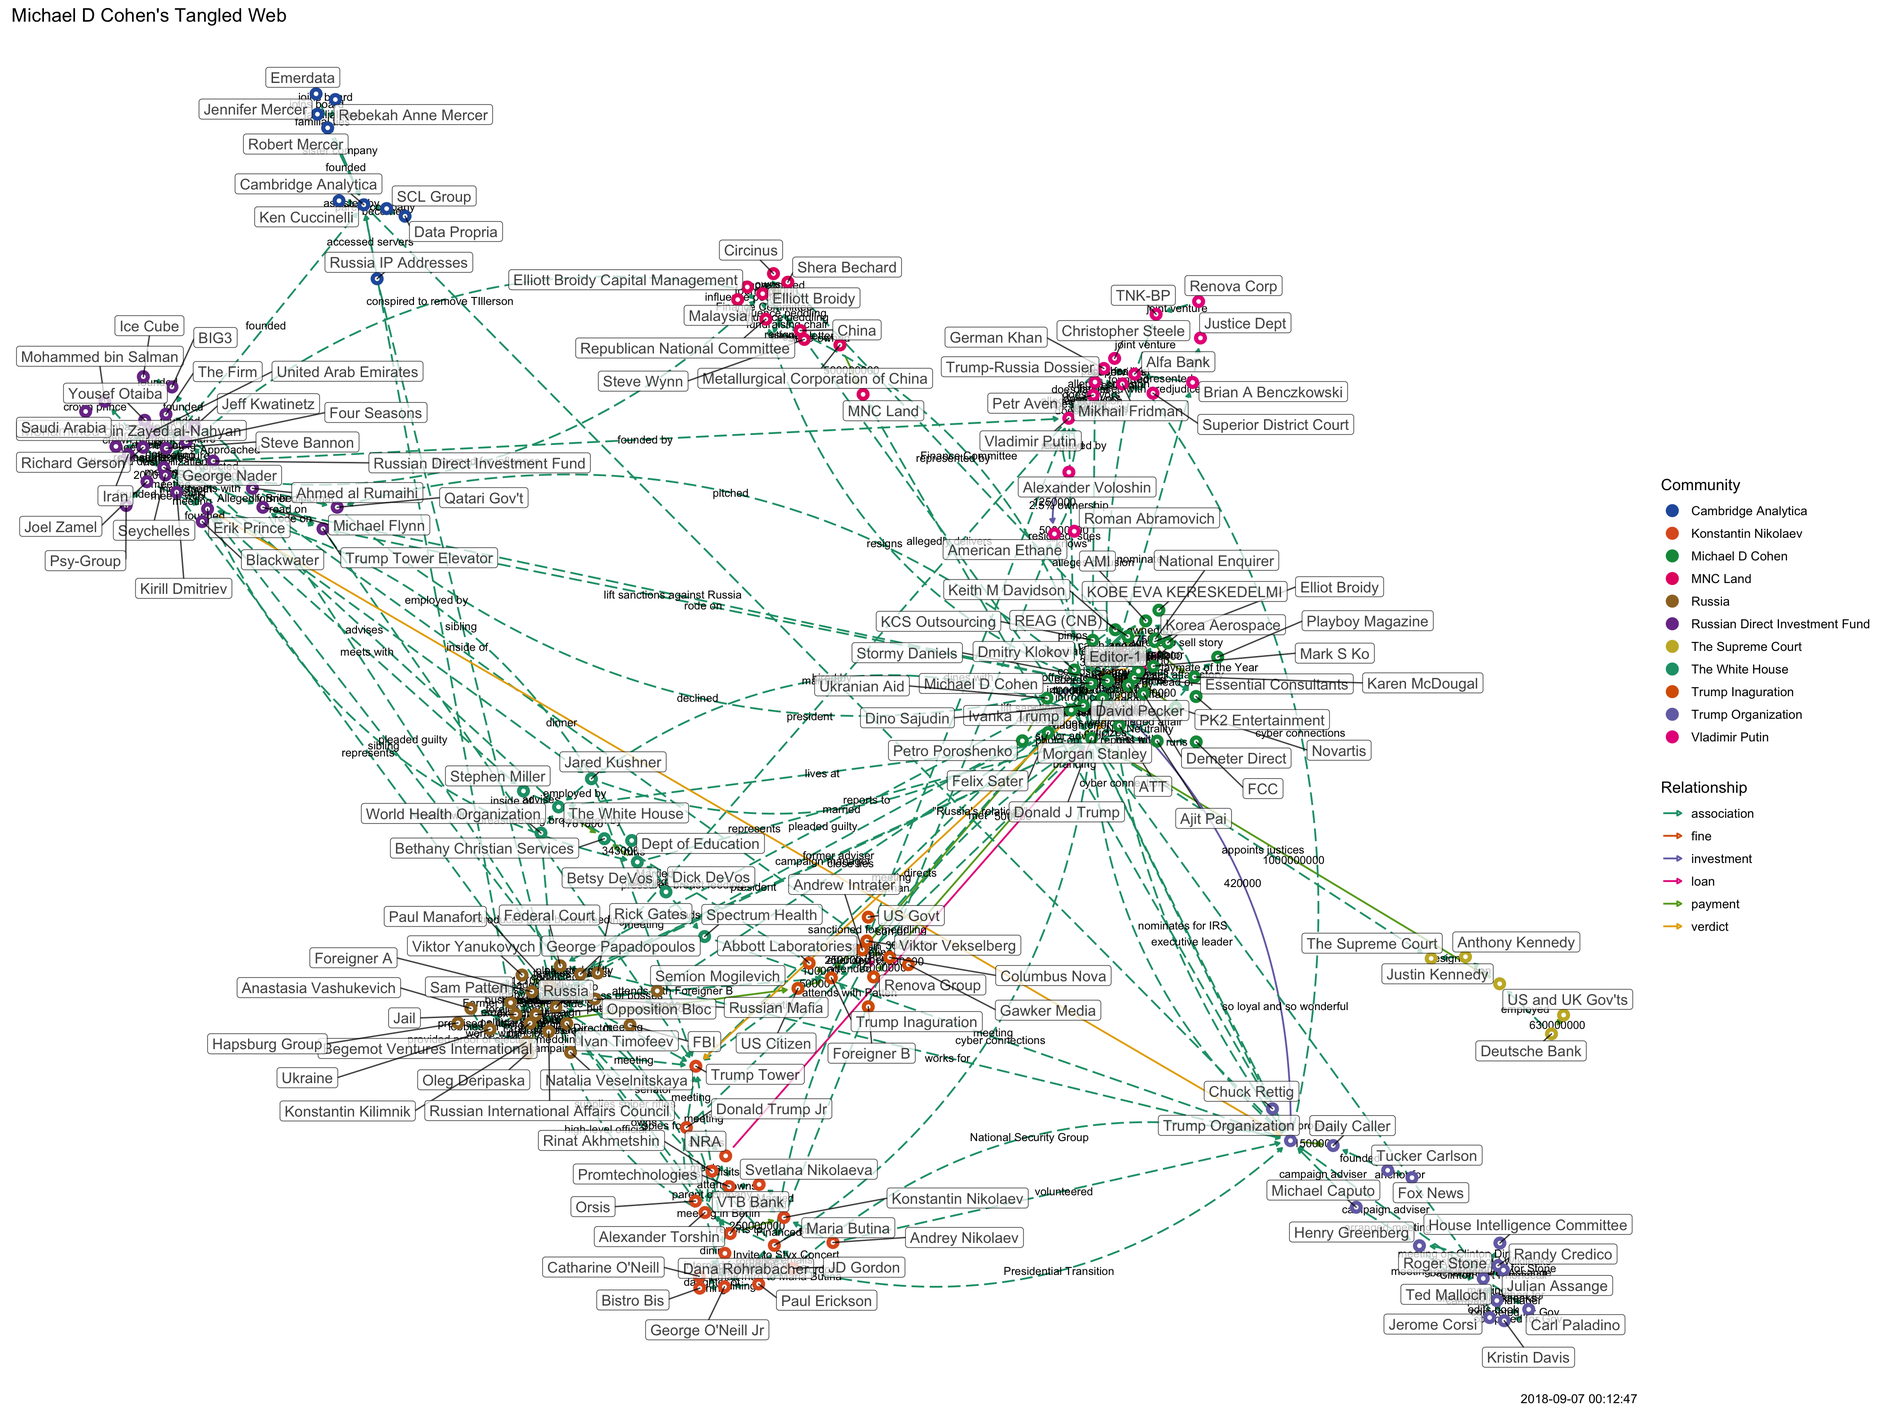
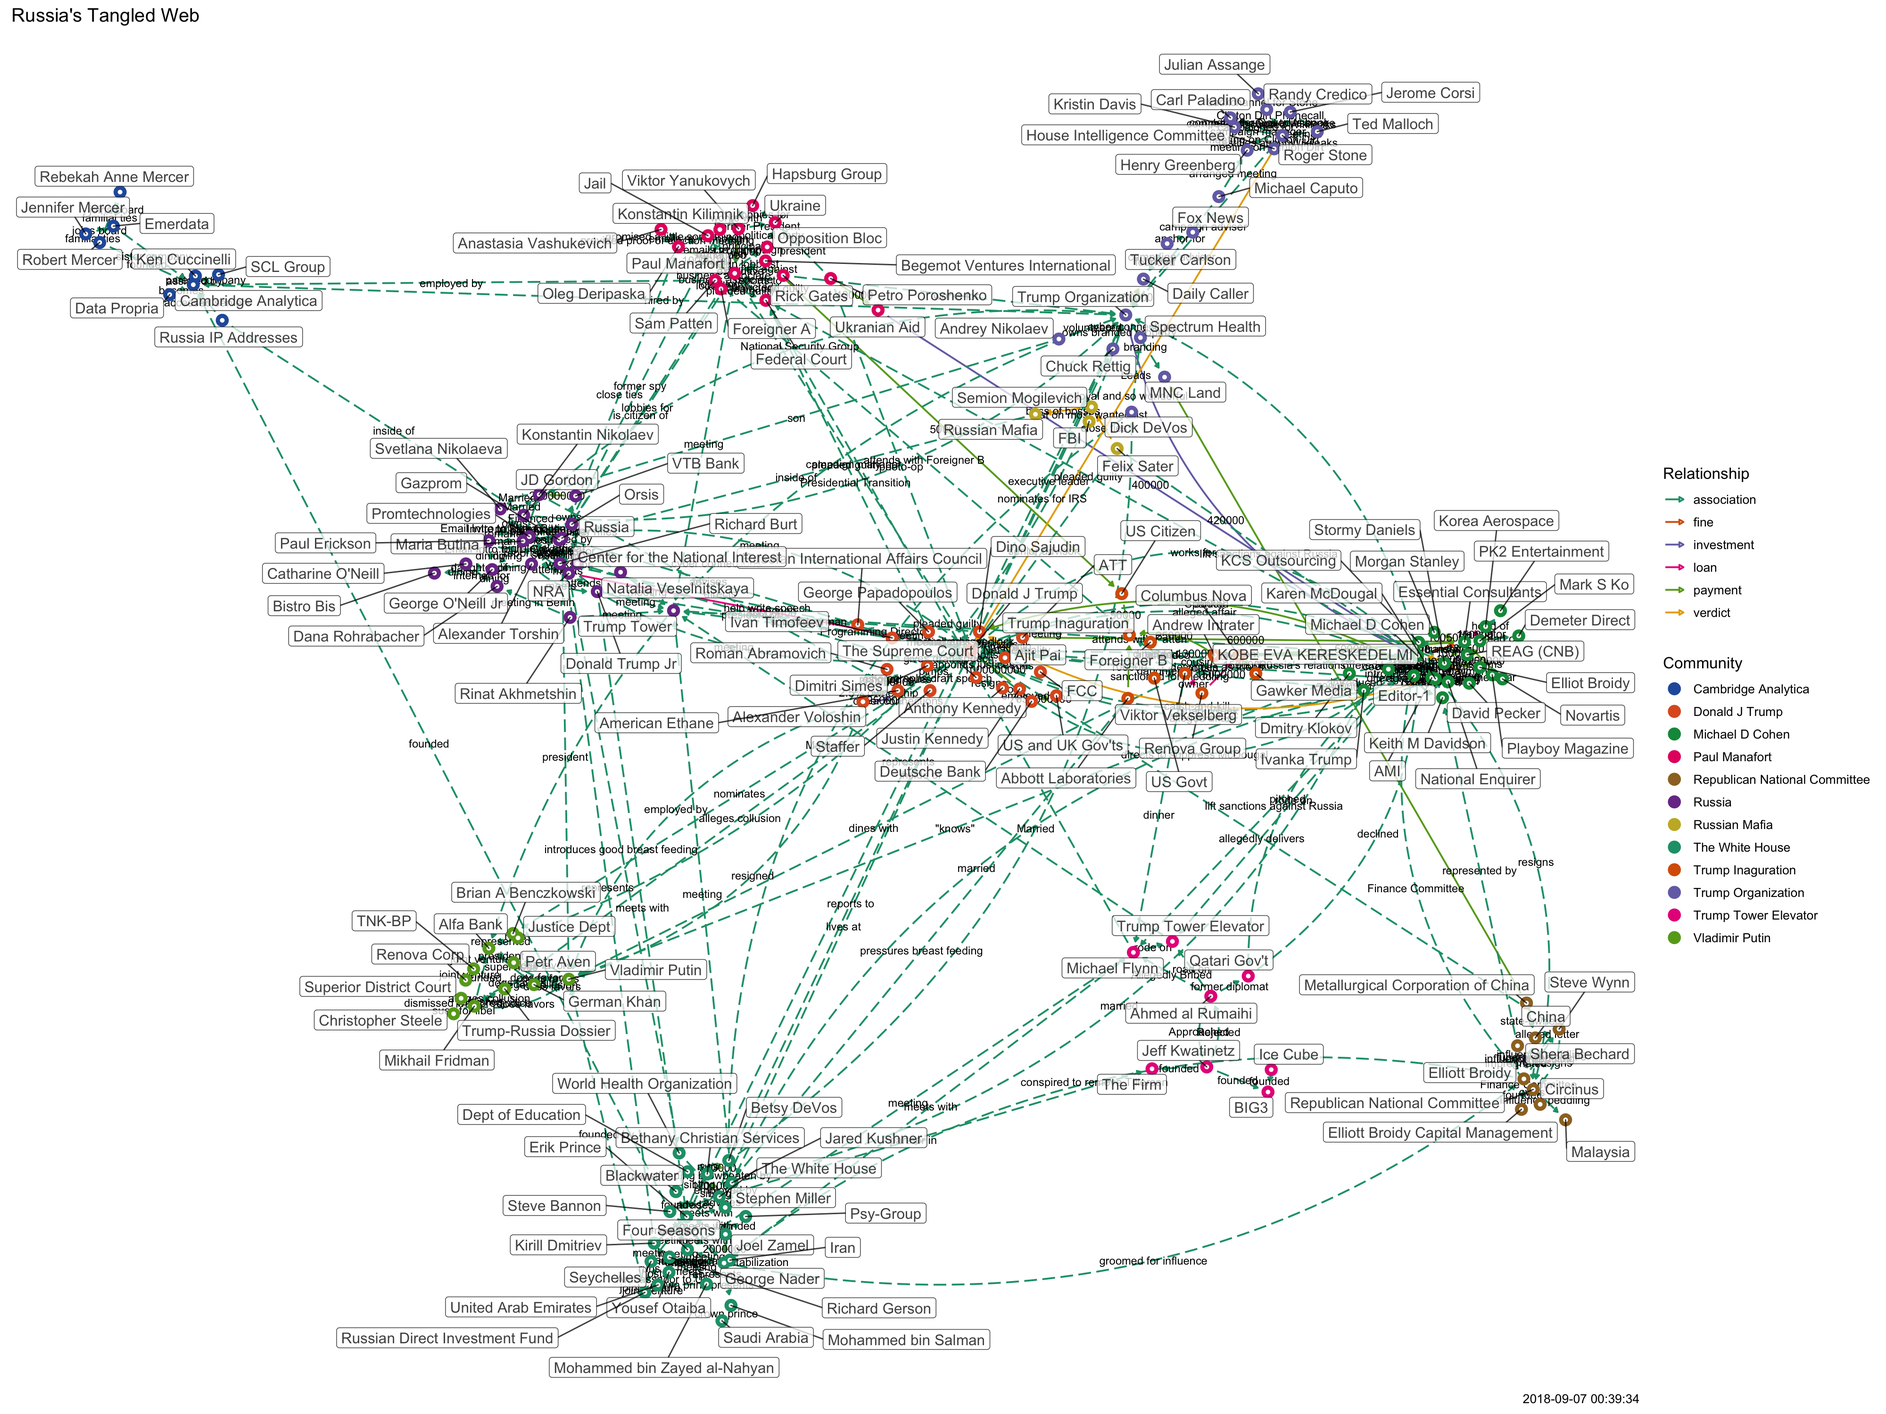
updated

diff --git a/docs/tangled-d3.html b/docs/tangled-d3.html
@@ -1143,11 +1143,11 @@ return function(){for(var n=0,e=0;e<t;++e)n+=Math.random();return n}},um=functio
 </head>
 <body style="background-color: white;">
 <div id="htmlwidget_container">
-<div id="htmlwidget-415cf0dfeb20f9e68ddf" class="forceNetwork html-widget" style="width:960px;height:500px;">
+<div id="htmlwidget-0f4e87a4f4a44fd0766f" class="forceNetwork html-widget" style="width:960px;height:500px;">
 
 </div>
 </div>
-<script type="application/json" data-for="htmlwidget-415cf0dfeb20f9e68ddf">{"x":{"links":{"source":[0,1,2,2,3,4,5,6,7,7,8,9,10,10,10,11,12,13,14,15,16,17,18,19,20,21,22,22,23,24,25,26,26,27,28,29,30,31,17,3,3,32,3,32,32,3,33,17,34,32,9,9,9,17,35,35,34,17,17,36,36,36,36,35,17,37,38,38,39,40,39,39,41,38,38,42,42,42,4,41,9,11,11,11,43,43,44,44,17,45,46,46,11,47,48,49,11,11,50,51,49,52,48,11,11,47,49,6,6,6,26,16,21,21,17,32,32,53,54,54,54,54,11,51,37,41,55,55,44,44,56,56,34,34,17,57,58,59,58,60,61,60,58,60,60,47,43,62,63,63,30,20,60,58,35,64,17,65,12,66,35,0,67,68,35,1,1,69,24,70,35,70,71,72,73,61,61,61,74,26,75,76,76,77,35,77,77,78,77,79,78,47,47,78,78,78,77,80,79,81,81,62,82,9,83,57,84,84,84,79,79,84,85,85,86,86,87,88,88,19,85,89,68,90,91,92,90,92,9,9,9,93,93,93,94,95,20,32,35,96,97,97,97,97,37,17,35,98,99,100,17,17,101,98,2,17,35,98,35,98,101,2,102,102,34,99,101,103,103,104,105,106,103,17,71,72,73,107,74,71,108,109,109,109,110,111,60,111,112,111,113,113,111,111,58,111,114,111,41,115,75,116,117,118,119,118,119,120,120,120,121,122,123,124,124,6,125,126,126,127,126,49,126,49,128,127,129,11,130,92,130,131,92,92,92,132,133,92,134,135],"target":[136,69,102,98,136,10,29,137,10,138,22,83,139,140,34,48,35,17,17,10,141,8,10,35,60,27,10,34,7,69,137,142,17,17,66,136,60,85,10,7,17,23,32,3,136,136,32,35,57,61,143,144,145,140,25,34,35,26,143,139,146,17,15,26,53,53,53,39,38,147,148,147,148,45,37,4,35,149,42,25,11,9,41,43,25,44,43,35,45,17,142,150,49,49,49,151,51,50,152,129,52,25,153,37,154,35,6,49,155,35,141,94,35,156,157,157,17,157,128,51,11,158,158,158,158,158,158,129,17,56,17,61,57,17,57,17,59,156,60,68,68,35,68,159,157,157,157,157,157,68,156,68,58,20,64,26,143,160,65,12,160,25,25,67,69,61,61,1,69,74,70,161,61,61,61,71,72,73,26,74,26,75,68,35,77,68,78,68,79,77,47,78,19,19,68,82,82,82,82,82,80,80,162,83,57,17,77,26,26,77,84,77,77,86,85,89,68,85,26,89,69,87,31,91,92,91,26,26,94,163,93,143,35,143,93,20,95,37,4,60,60,26,96,60,96,96,17,99,100,2,99,101,2,2,17,2,17,35,98,164,35,102,35,157,99,17,17,35,105,105,106,68,17,37,74,74,74,165,165,108,109,35,61,71,71,60,111,112,156,113,111,68,75,96,5,5,136,136,75,75,166,75,75,117,117,115,115,35,96,121,122,68,26,123,6,124,75,49,127,61,68,26,128,128,129,129,127,128,92,167,131,92,35,134,132,133,92,135,135,134],"colour":["red","blue","red","red","red","red","red","red","red","blue","red","red","red","red","red","red","blue","red","red","red","blue","red","red","blue","blue","red","red","red","blue","blue","red","red","red","red","blue","red","red","blue","blue","blue","blue","blue","blue","blue","blue","blue","blue","blue","blue","blue","blue","blue","blue","blue","blue","blue","blue","blue","blue","blue","blue","blue","blue","blue","blue","blue","blue","blue","blue","blue","blue","blue","blue","blue","blue","blue","blue","blue","blue","blue","blue","blue","blue","blue","blue","blue","blue","blue","blue","blue","blue","blue","blue","blue","blue","blue","blue","blue","blue","blue","blue","blue","blue","blue","blue","blue","blue","blue","blue","blue","blue","blue","blue","blue","blue","blue","blue","blue","blue","blue","blue","blue","blue","blue","blue","blue","blue","blue","blue","blue","blue","blue","blue","blue","blue","blue","blue","blue","blue","blue","blue","blue","blue","blue","blue","blue","blue","blue","blue","blue","blue","blue","blue","blue","blue","blue","blue","blue","blue","blue","blue","blue","blue","blue","blue","blue","blue","blue","blue","blue","blue","blue","blue","blue","blue","blue","blue","blue","blue","blue","blue","blue","blue","blue","blue","blue","blue","blue","blue","blue","blue","blue","blue","blue","blue","blue","blue","blue","blue","blue","blue","blue","blue","blue","blue","blue","blue","blue","blue","blue","blue","blue","blue","blue","blue","blue","blue","blue","blue","blue","blue","blue","blue","blue","blue","blue","blue","blue","blue","blue","blue","blue","blue","blue","blue","blue","blue","blue","blue","blue","blue","blue","blue","blue","blue","blue","blue","blue","blue","blue","blue","blue","blue","blue","blue","blue","blue","blue","blue","blue","blue","blue","blue","blue","blue","blue","blue","blue","blue","blue","blue","blue","blue","blue","blue","blue","blue","blue","blue","blue","blue","blue","blue","blue","blue","blue","blue","blue","blue","blue","blue","blue","blue","blue","blue","blue","blue","blue","blue","blue","blue","blue","blue","blue","blue","blue","blue","blue","blue","blue","blue","blue","blue","blue","blue","blue","blue","blue","blue","blue","blue","blue","blue","blue","blue","blue","blue","blue","blue","blue","blue","blue","blue","blue","blue","blue","blue","blue","blue","blue"]},"nodes":{"name":["Abbott Laboratories","Alexander Voloshin","AMI","Andrew Intrater","ATT","Begemot Ventures International","Betsy DeVos","Columbus Nova","Elliot Broidy","Elliott Broidy","Essential Consultants","George Nader","Justin Kennedy","KCS Outsourcing","KOBE EVA KERESKEDELMI","Korea Aerospace","Metallurgical Corporation of China","Michael D Cohen","Novartis","NRA","Oleg Deripaska","Petro Poroshenko","REAG (CNB)","Renova Group","Roman Abramovich","The White House","Trump Organization","Ukranian Aid","US and UK Gov'ts","US Citizen","Viktor Yanukovych","VTB Bank","Viktor Vekselberg","US Govt","Stormy Daniels","Donald J Trump","Mark S Ko","Michael Flynn","Ahmed al Rumaihi","Jeff Kwatinetz","Ice Cube","Steve Bannon","Ajit Pai","Jared Kushner","Ivanka Trump","Qatari Gov't","Tucker Carlson","Donald Trump Jr","Joel Zamel","Erik Prince","Mohammed bin Salman","Mohammed bin Zayed al-Nahyan","Stephen Miller","Trump Tower Elevator","Richard Gerson","Yousef Otaiba","Dmitry Klokov","Keith M Davidson","Konstantin Kilimnik","Hapsburg Group","Paul Manafort","Vladimir Putin","Rinat Akhmetshin","Natalia Veselnitskaya","Chuck Rettig","Anthony Kennedy","Deutsche Bank","World Health Organization","Russia","American Ethane","Brian A Benczkowski","Mikhail Fridman","German Khan","Petr Aven","Alfa Bank","Cambridge Analytica","Russia IP Addresses","Maria Butina","Alexander Torshin","Paul Erickson","Dana Rohrabacher","Catharine O'Neill","George O'Neill Jr","Shera Bechard","JD Gordon","Konstantin Nikolaev","Svetlana Nikolaeva","Orsis","Andrey Nikolaev","Promtechnologies","Michael Caputo","Henry Greenberg","Roger Stone","Steve Wynn","China","Anastasia Vashukevich","Federal Court","Rick Gates","Karen McDougal","Editor-1","National Enquirer","David Pecker","Dino Sajudin","Felix Sater","FBI","Semion Mogilevich","Russian Mafia","Renova Corp","Christopher Steele","Trump-Russia Dossier","Superior District Court","Sam Patten","Opposition Bloc","Foreigner A","Foreigner B","Robert Mercer","SCL Group","Emerdata","Jennifer Mercer","Rebekah Anne Mercer","George Papadopoulos","Ivan Timofeev","Russian International Affairs Council","Spectrum Health","Dick DeVos","Ken Cuccinelli","Kirill Dmitriev","Russian Direct Investment Fund","Seychelles","United Arab Emirates","Jerome Corsi","Ted Malloch","Randy Credico","Julian Assange","Kristin Davis","Carl Paladino","Trump Inaguration","Bethany Christian Services","Gawker Media","Demeter Direct","Morgan Stanley","MNC Land","Daily Caller","Republican National Committee","Elliott Broidy Capital Management","Circinus","PK2 Entertainment","BIG3","The Firm","FCC","Fox News","Blackwater","Saudi Arabia","Psy-Group","Iran","Dept of Education","Ukraine","Trump Tower","Four Seasons","Jail","The Supreme Court","Justice Dept","Bistro Bis","Malaysia","Playboy Magazine","TNK-BP","Data Propria","House Intelligence Committee"],"group":["8","6","1","8","1","3","10","8","1","7","1","2","11","1","1","1","7","1","1","4","3","1","1","8","6","10","5","1","11","8","3","4","8","8","1","1","1","2","2","2","2","2","1","10","1","2","5","4","2","2","2","2","10","2","2","2","1","1","3","3","3","6","4","3","5","11","11","10","3","6","6","6","6","6","6","9","9","4","4","4","4","4","4","7","4","4","4","4","4","4","5","5","5","7","7","3","3","3","1","1","1","1","1","1","3","3","3","6","6","6","6","3","3","3","8","9","9","9","9","9","3","3","3","10","10","9","2","2","2","2","5","5","5","5","5","5","8","10","8","1","1","7","5","7","7","7","1","2","2","1","5","2","2","2","2","10","3","4","2","3","11","6","4","7","1","6","9","5"]},"options":{"NodeID":"name","Group":"group","colourScale":"d3.scaleOrdinal(d3.schemeCategory20);","fontSize":20,"fontFamily":"serif","clickTextSize":50,"linkDistance":50,"linkWidth":"function(d) { return Math.sqrt(d.value); }","charge":-100,"opacity":1,"zoom":true,"legend":false,"arrows":false,"nodesize":false,"radiusCalculation":" Math.sqrt(d.nodesize)+6","bounded":false,"opacityNoHover":1,"clickAction":null}},"evals":[],"jsHooks":[]}</script>
-<script type="application/htmlwidget-sizing" data-for="htmlwidget-415cf0dfeb20f9e68ddf">{"viewer":{"width":450,"height":350,"padding":10,"fill":true},"browser":{"width":960,"height":500,"padding":10,"fill":true}}</script>
+<script type="application/json" data-for="htmlwidget-0f4e87a4f4a44fd0766f">{"x":{"links":{"source":[0,1,2,2,3,4,5,6,7,7,8,9,10,10,10,11,12,13,14,15,16,17,18,19,20,21,22,22,23,24,25,26,26,27,28,29,30,31,17,3,3,32,3,32,32,3,33,17,34,32,9,9,9,17,35,35,34,17,17,36,36,36,36,35,17,37,38,38,39,40,39,39,41,38,38,42,42,42,4,41,9,11,11,11,43,43,44,44,17,45,46,46,11,47,48,49,11,11,50,51,49,52,48,11,11,47,49,6,6,6,26,16,21,21,17,32,32,53,54,54,54,54,11,51,37,41,55,55,44,44,56,56,34,34,17,57,58,59,58,60,61,60,58,60,60,47,43,62,63,63,30,20,60,58,35,64,17,65,12,66,35,0,67,68,35,1,1,69,24,70,35,70,71,72,73,61,61,61,74,26,75,76,76,77,35,77,77,78,77,79,78,47,47,78,78,78,77,80,79,81,81,62,82,9,83,57,84,84,84,79,79,84,85,85,86,86,87,88,88,19,85,89,68,90,91,92,90,92,9,9,9,93,93,93,94,95,20,32,35,96,97,97,97,97,37,17,35,98,99,100,17,17,101,98,2,17,35,98,35,98,101,2,102,102,34,99,101,103,103,104,105,106,103,17,71,72,73,107,74,71,108,109,109,109,110,111,60,111,112,111,113,113,111,111,58,111,114,111,41,115,75,116,117,118,119,118,119,120,120,120,121,122,123,124,124,6,125,126,126,127,126,49,126,49,128,127,129,11,130,92,130,131,92,92,92,132,133,92,134,135,136,137,35,77,138,139,139,139,140],"target":[141,69,102,98,141,10,29,142,10,143,22,83,144,145,34,48,35,17,17,10,146,8,10,35,60,27,10,34,7,69,142,147,17,17,66,141,60,85,10,7,17,23,32,3,141,141,32,35,57,61,148,149,150,145,25,34,35,26,148,144,151,17,15,26,53,53,53,39,38,152,153,152,153,45,37,4,35,154,42,25,11,9,41,43,25,44,43,35,45,17,147,155,49,49,49,156,51,50,157,129,52,25,158,37,159,35,6,49,160,35,146,94,35,161,162,162,17,162,128,51,11,163,163,163,163,163,163,129,17,56,17,61,57,17,57,17,59,161,60,68,68,35,68,164,162,162,162,162,162,68,161,68,58,20,64,26,148,165,65,12,165,25,25,67,69,61,61,1,69,74,70,166,61,61,61,71,72,73,26,74,26,75,68,35,77,68,78,68,79,77,47,78,19,19,68,82,82,82,82,82,80,80,167,83,57,17,77,26,26,77,84,77,77,86,85,89,68,85,26,89,69,87,31,91,92,91,26,26,94,168,93,148,35,148,93,20,95,37,4,60,60,26,96,60,96,96,17,99,100,2,99,101,2,2,17,2,17,35,98,169,35,102,35,162,99,17,17,35,105,105,106,68,17,37,74,74,74,170,170,108,109,35,61,71,71,60,111,112,161,113,111,68,75,96,5,5,141,141,75,75,171,75,75,117,117,115,115,35,96,121,122,68,26,123,6,124,75,49,127,61,68,26,128,128,129,129,127,128,92,172,131,92,35,134,132,133,92,135,135,134,138,136,136,138,68,138,35,140,68],"colour":["red","blue","red","red","red","red","red","red","red","blue","red","red","red","red","red","red","blue","red","red","red","blue","red","red","blue","blue","red","red","red","blue","blue","red","red","red","red","blue","red","red","blue","blue","blue","blue","blue","blue","blue","blue","blue","blue","blue","blue","blue","blue","blue","blue","blue","blue","blue","blue","blue","blue","blue","blue","blue","blue","blue","blue","blue","blue","blue","blue","blue","blue","blue","blue","blue","blue","blue","blue","blue","blue","blue","blue","blue","blue","blue","blue","blue","blue","blue","blue","blue","blue","blue","blue","blue","blue","blue","blue","blue","blue","blue","blue","blue","blue","blue","blue","blue","blue","blue","blue","blue","blue","blue","blue","blue","blue","blue","blue","blue","blue","blue","blue","blue","blue","blue","blue","blue","blue","blue","blue","blue","blue","blue","blue","blue","blue","blue","blue","blue","blue","blue","blue","blue","blue","blue","blue","blue","blue","blue","blue","blue","blue","blue","blue","blue","blue","blue","blue","blue","blue","blue","blue","blue","blue","blue","blue","blue","blue","blue","blue","blue","blue","blue","blue","blue","blue","blue","blue","blue","blue","blue","blue","blue","blue","blue","blue","blue","blue","blue","blue","blue","blue","blue","blue","blue","blue","blue","blue","blue","blue","blue","blue","blue","blue","blue","blue","blue","blue","blue","blue","blue","blue","blue","blue","blue","blue","blue","blue","blue","blue","blue","blue","blue","blue","blue","blue","blue","blue","blue","blue","blue","blue","blue","blue","blue","blue","blue","blue","blue","blue","blue","blue","blue","blue","blue","blue","blue","blue","blue","blue","blue","blue","blue","blue","blue","blue","blue","blue","blue","blue","blue","blue","blue","blue","blue","blue","blue","blue","blue","blue","blue","blue","blue","blue","blue","blue","blue","blue","blue","blue","blue","blue","blue","blue","blue","blue","blue","blue","blue","blue","blue","blue","blue","blue","blue","blue","blue","blue","blue","blue","blue","blue","blue","blue","blue","blue","blue","blue","blue","blue","blue","blue","blue","blue","blue","blue","blue","blue","blue","blue","blue","blue","blue","blue","blue","blue","blue","blue","blue","blue","blue","blue","blue","blue","blue","blue","blue","blue","blue","blue","blue","blue","blue","blue","blue","blue","blue","blue","blue","blue"]},"nodes":{"name":["Abbott Laboratories","Alexander Voloshin","AMI","Andrew Intrater","ATT","Begemot Ventures International","Betsy DeVos","Columbus Nova","Elliot Broidy","Elliott Broidy","Essential Consultants","George Nader","Justin Kennedy","KCS Outsourcing","KOBE EVA KERESKEDELMI","Korea Aerospace","Metallurgical Corporation of China","Michael D Cohen","Novartis","NRA","Oleg Deripaska","Petro Poroshenko","REAG (CNB)","Renova Group","Roman Abramovich","The White House","Trump Organization","Ukranian Aid","US and UK Gov'ts","US Citizen","Viktor Yanukovych","VTB Bank","Viktor Vekselberg","US Govt","Stormy Daniels","Donald J Trump","Mark S Ko","Michael Flynn","Ahmed al Rumaihi","Jeff Kwatinetz","Ice Cube","Steve Bannon","Ajit Pai","Jared Kushner","Ivanka Trump","Qatari Gov't","Tucker Carlson","Donald Trump Jr","Joel Zamel","Erik Prince","Mohammed bin Salman","Mohammed bin Zayed al-Nahyan","Stephen Miller","Trump Tower Elevator","Richard Gerson","Yousef Otaiba","Dmitry Klokov","Keith M Davidson","Konstantin Kilimnik","Hapsburg Group","Paul Manafort","Vladimir Putin","Rinat Akhmetshin","Natalia Veselnitskaya","Chuck Rettig","Anthony Kennedy","Deutsche Bank","World Health Organization","Russia","American Ethane","Brian A Benczkowski","Mikhail Fridman","German Khan","Petr Aven","Alfa Bank","Cambridge Analytica","Russia IP Addresses","Maria Butina","Alexander Torshin","Paul Erickson","Dana Rohrabacher","Catharine O'Neill","George O'Neill Jr","Shera Bechard","JD Gordon","Konstantin Nikolaev","Svetlana Nikolaeva","Orsis","Andrey Nikolaev","Promtechnologies","Michael Caputo","Henry Greenberg","Roger Stone","Steve Wynn","China","Anastasia Vashukevich","Federal Court","Rick Gates","Karen McDougal","Editor-1","National Enquirer","David Pecker","Dino Sajudin","Felix Sater","FBI","Semion Mogilevich","Russian Mafia","Renova Corp","Christopher Steele","Trump-Russia Dossier","Superior District Court","Sam Patten","Opposition Bloc","Foreigner A","Foreigner B","Robert Mercer","SCL Group","Emerdata","Jennifer Mercer","Rebekah Anne Mercer","George Papadopoulos","Ivan Timofeev","Russian International Affairs Council","Spectrum Health","Dick DeVos","Ken Cuccinelli","Kirill Dmitriev","Russian Direct Investment Fund","Seychelles","United Arab Emirates","Jerome Corsi","Ted Malloch","Randy Credico","Julian Assange","Kristin Davis","Carl Paladino","Dimitri Simes","Staffer","Center for the National Interest","Richard Burt","Gazprom","Trump Inaguration","Bethany Christian Services","Gawker Media","Demeter Direct","Morgan Stanley","MNC Land","Daily Caller","Republican National Committee","Elliott Broidy Capital Management","Circinus","PK2 Entertainment","BIG3","The Firm","FCC","Fox News","Blackwater","Saudi Arabia","Psy-Group","Iran","Dept of Education","Ukraine","Trump Tower","Four Seasons","Jail","The Supreme Court","Justice Dept","Bistro Bis","Malaysia","Playboy Magazine","TNK-BP","Data Propria","House Intelligence Committee"],"group":["8","5","2","8","5","6","1","8","2","9","2","1","5","2","2","2","9","2","2","3","6","6","2","8","5","1","4","6","5","8","6","3","8","8","2","5","2","11","11","11","11","1","5","1","2","11","4","3","1","1","1","1","1","11","1","1","2","2","6","6","6","7","3","3","4","5","5","1","3","5","7","7","7","7","7","10","10","3","3","3","3","3","3","9","3","3","3","3","4","3","4","4","4","9","9","6","6","6","2","2","2","2","5","12","12","12","12","7","7","7","7","6","6","6","8","10","10","10","10","10","5","5","5","4","4","10","1","1","1","1","4","4","4","4","4","4","5","5","3","3","3","8","1","8","2","2","4","4","9","9","9","2","11","11","5","4","1","1","1","1","1","6","3","1","6","5","7","3","9","2","7","10","4"]},"options":{"NodeID":"name","Group":"group","colourScale":"d3.scaleOrdinal(d3.schemeCategory20);","fontSize":20,"fontFamily":"serif","clickTextSize":50,"linkDistance":50,"linkWidth":"function(d) { return Math.sqrt(d.value); }","charge":-100,"opacity":1,"zoom":true,"legend":false,"arrows":false,"nodesize":false,"radiusCalculation":" Math.sqrt(d.nodesize)+6","bounded":false,"opacityNoHover":1,"clickAction":null}},"evals":[],"jsHooks":[]}</script>
+<script type="application/htmlwidget-sizing" data-for="htmlwidget-0f4e87a4f4a44fd0766f">{"viewer":{"width":450,"height":350,"padding":10,"fill":true},"browser":{"width":960,"height":500,"padding":10,"fill":true}}</script>
 </body>
 </html>
